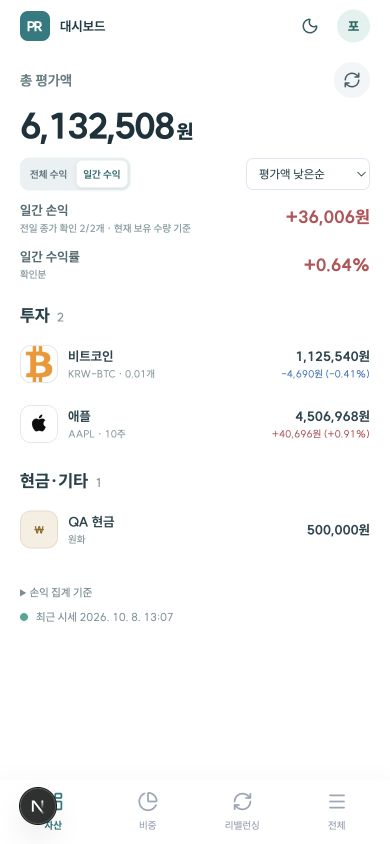
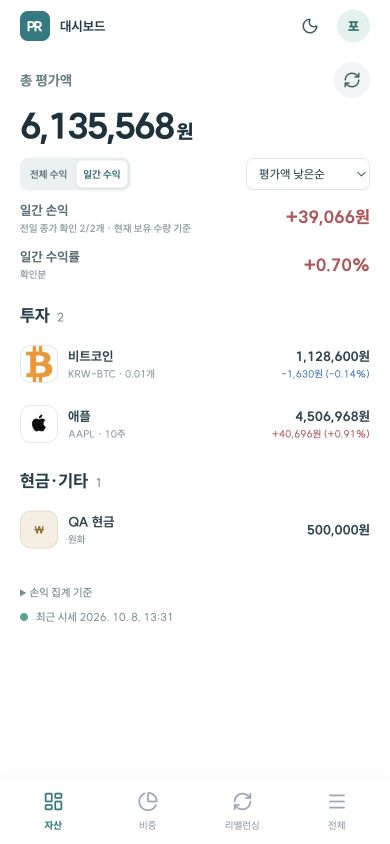
fix: remove debug indicator and QA captions from introduction

diff --git a/apps/web/app/about/page.tsx b/apps/web/app/about/page.tsx
@@ -38,7 +38,6 @@ export default function AboutPage() {
             <figure className={styles.heroVisual} data-reveal>
               <div className={styles.visualBackdrop}><span>목표를 정하고.<br />현재를 확인하고.<br /><b>필요할 때 조정하고.</b></span></div>
               <img src="/about/mobile-dashboard.jpg" width={390} height={844} alt="총 평가액, 일간 손익, 정렬한 종목을 보여주는 PortRhythm 모바일 대시보드" fetchPriority="high" />
-              <figcaption>실제 서비스 화면 · QA 계정 예시 데이터</figcaption>
             </figure>
           </section>
 
@@ -53,7 +52,7 @@ export default function AboutPage() {
 
           <section className={`${styles.section} ${styles.screenSection}`} data-reveal>
             <div><span className={styles.eyebrow}>목표와 현재를 한눈에</span><h2>많아진 비중, 부족한 비중.<br />차이가 보이면 기준이 생깁니다.</h2><p>원형 그래프에서 포트를 선택해 평가액과 현재·목표 비중을 확인하세요. 같은 종목을 여러 계좌에 보유해도 내 투자 계획에 연결할 수 있습니다.</p><ul className={styles.checks}><li><Check size={16} />종목코드 규칙 또는 직접 자산 배정</li><li><Check size={16} />포트별 평가액과 비중 차이 확인</li><li><Check size={16} />포트별 추이와 입출금 기록</li></ul></div>
-            <figure className={styles.screen}><img src="/guide/desktop-composition.jpg" width={1280} height={720} loading="lazy" alt="원형 그래프와 포트별 현재·목표 비중을 비교하는 화면" /><figcaption>포트 비중 화면 · QA 계정 예시 데이터</figcaption></figure>
+            <figure className={styles.screen}><img src="/guide/desktop-composition.jpg" width={1280} height={720} loading="lazy" alt="원형 그래프와 포트별 현재·목표 비중을 비교하는 화면" /></figure>
           </section>
 
           <section className={styles.section} data-reveal>
@@ -63,7 +62,7 @@ export default function AboutPage() {
           </section>
 
           <section className={`${styles.section} ${styles.screenSection}`} data-reveal>
-            <figure className={styles.screen}><img src="/guide/desktop-rebalance.jpg" width={1265} height={1078} loading="lazy" alt="예상 주식 매수·매도 수량과 조정 후 비중을 보여주는 리밸런싱 화면" /><figcaption>리밸런싱 화면 · QA 계정 예시 데이터</figcaption></figure>
+            <figure className={styles.screen}><img src="/guide/desktop-rebalance.jpg" width={1265} height={1078} loading="lazy" alt="예상 주식 매수·매도 수량과 조정 후 비중을 보여주는 리밸런싱 화면" /></figure>
             <div><span className={styles.eyebrow}>차이를 보고, 수량으로 검토</span><h2>내 상황에 맞는<br />조정 방법을 고르세요.</h2><p>매도 후 매수와 신규 자금 매수를 비교하고, 이번에 조정하지 않을 종목은 제외하세요. 실제 거래는 증권사·거래소에서 직접 진행합니다.</p><p>주식은 1주 단위와 예산을 반영합니다. 가상자산은 초과·부족 금액을 검토하며, 비용·체결 가격에 따라 실제 결과는 달라질 수 있습니다.</p></div>
           </section>
 

diff --git a/apps/web/next.config.ts b/apps/web/next.config.ts
@@ -1,7 +1,8 @@
 import type { NextConfig } from "next";
 
 const nextConfig: NextConfig = {
-  reactStrictMode: true
+  reactStrictMode: true,
+  devIndicators: false
 };
 
 export default nextConfig;
